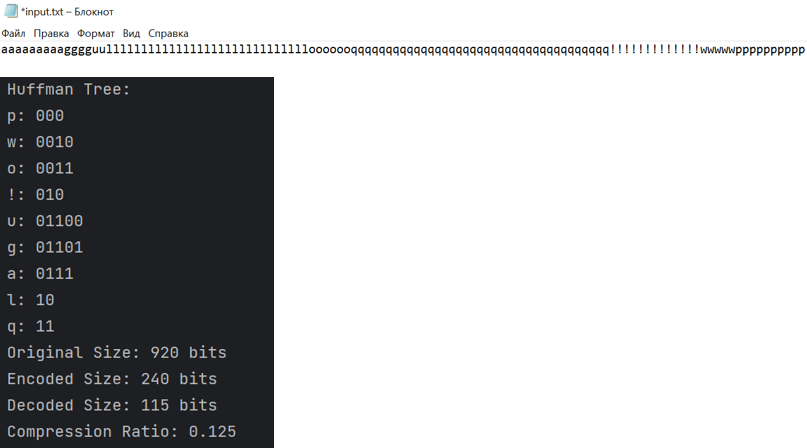
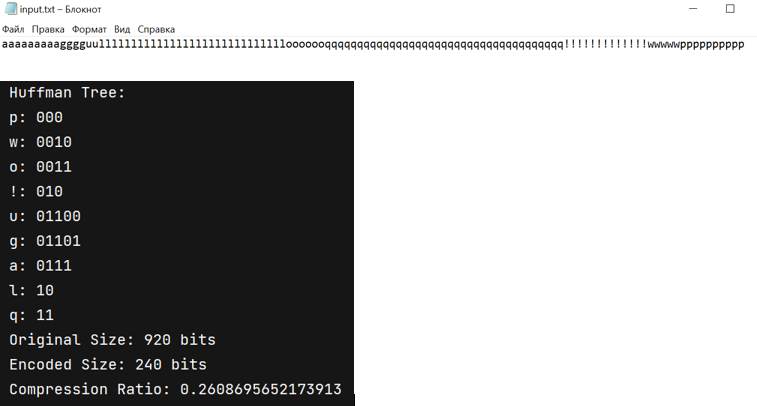
Change compression ratio

diff --git a/practical_work_Huffman/src/HuffmanCoding.java b/practical_work_Huffman/src/HuffmanCoding.java
@@ -3,7 +3,6 @@ import java.util.PriorityQueue;
 import java.util.HashMap;
 
 public class HuffmanCoding {
-
     private static HashMap<Character, String> huffmanCodes = new HashMap<>();
 
     public static void main(String[] args) {
@@ -13,11 +12,11 @@ public class HuffmanCoding {
 
         int originalSize = encode(inputFile, encodedFile);
         int decodedSize = decode(encodedFile, decodedFile);
+        int encodedSize = encodedFile.length() * 8;
 
-        double compressionRatio = (double) decodedSize / originalSize;
+        double compressionRatio = (double) encodedSize / originalSize;
         System.out.println("Original Size: " + originalSize + " bits");
-        System.out.println("Encoded Size: " + encodedFile.length() * 8 + " bits");
-        System.out.println("Decoded Size: " + decodedSize + " bits");
+        System.out.println("Encoded Size: " + encodedSize + " bits");
         System.out.println("Compression Ratio: " + compressionRatio);
     }
 
